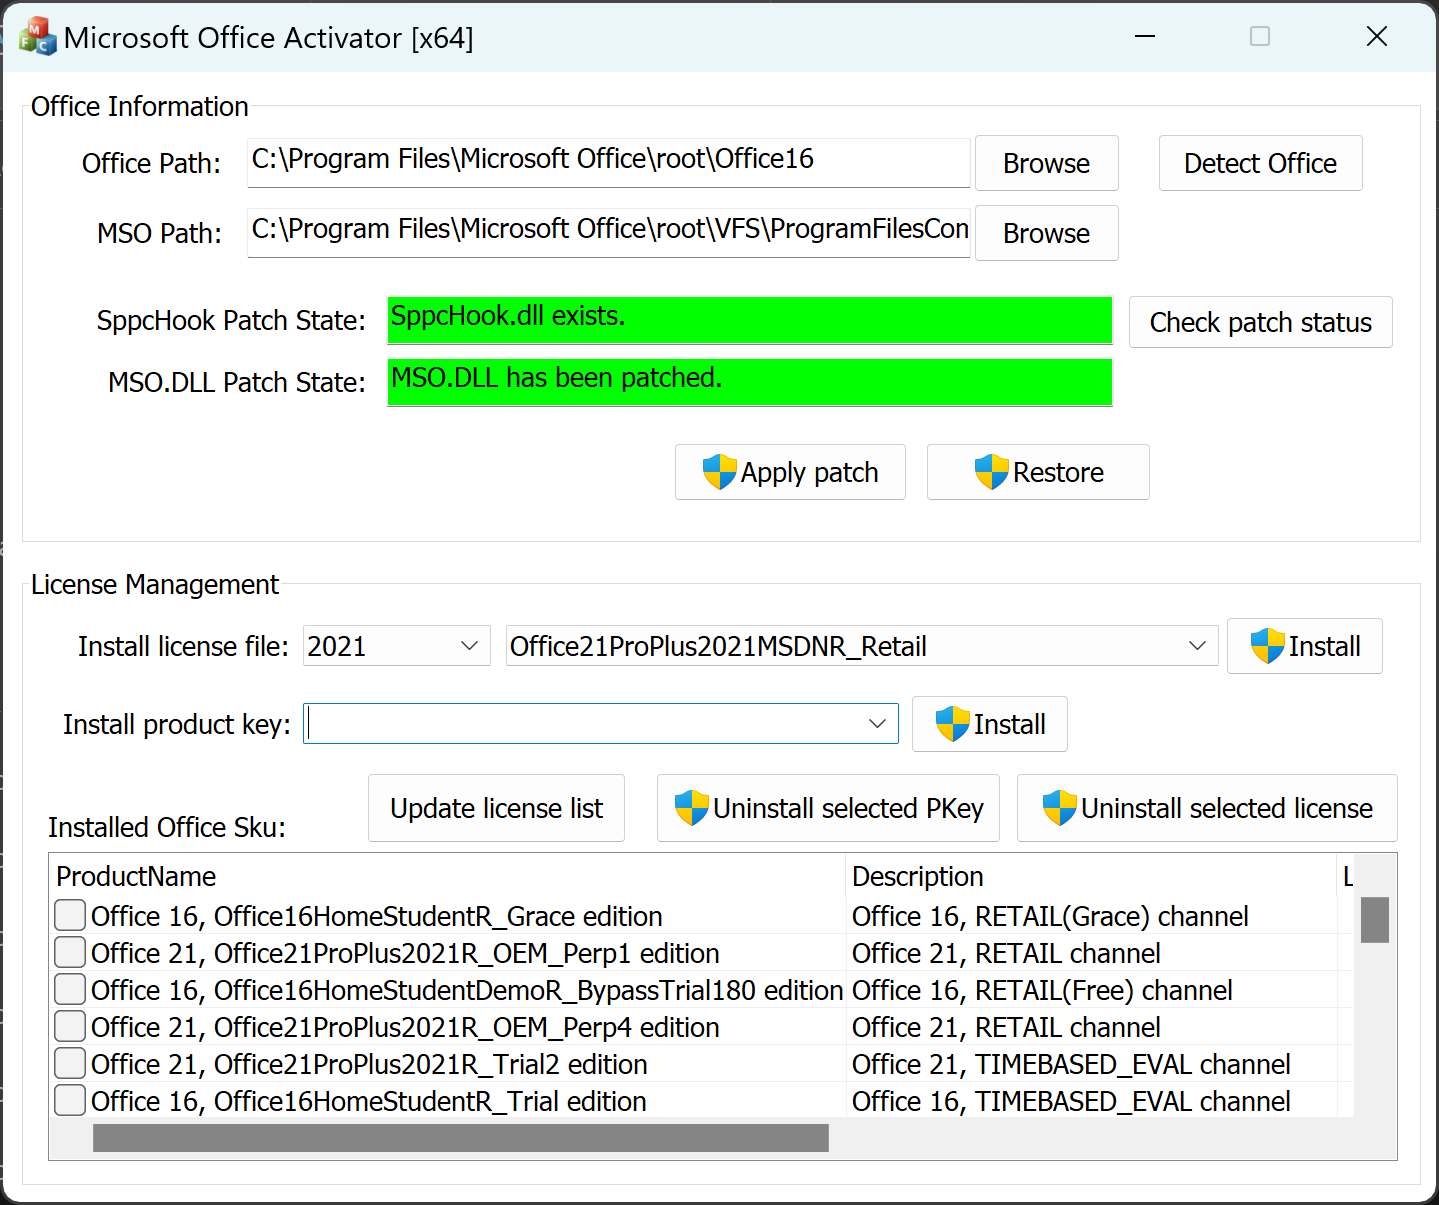
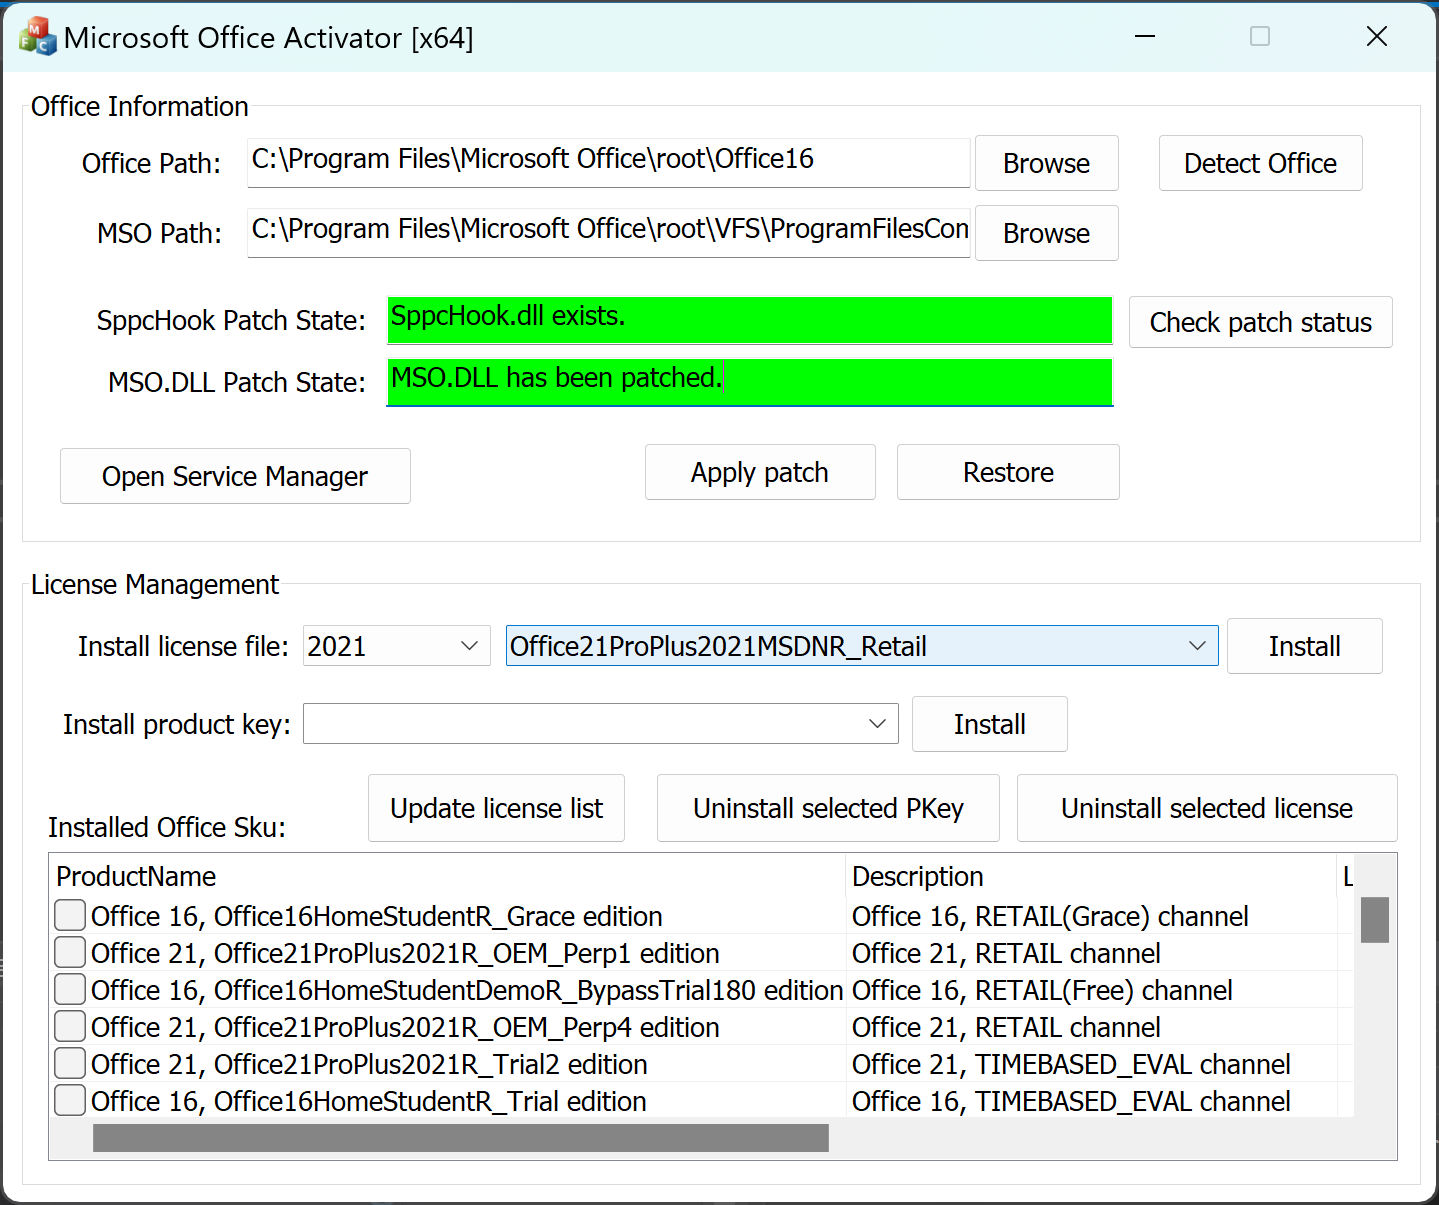
update README

diff --git a/README.md b/README.md
@@ -3,6 +3,7 @@
 **Office Activator** is an Office activation tool.
 
 ![MainWindow](https://github.com/bb107/OfficeActivator/blob/master/screenshots/main.png?raw=true)
+![ServiceManage](https://github.com/bb107/OfficeActivator/blob/service/screenshots/sc.png?raw=true)
 
 Just like other activation tools,
 >**Office Activator is:**
@@ -69,3 +70,16 @@ Therefore, the patched Office has no activation time limit (difference from KMS)
 6. Check patch status. Typically, "SppcHook Patch State" and "MSO Patch State" are "SppcHook.dll not found." and "MSO.DLL is not patched." respectively. If this is not the case, and the indicator color is not green, you may need to reinstall Office.
 7. At this point, just click the "Apply patch" button. If successful, the patch status indicator will turn green. If you need to restore the patch, just click the "Restore" button.
 8. Enjoy!
+
+## Run OfficeActivator As Service
+OfficeActivator can now run as a Windows service, which will monitor the MSO.DLL for changes in the background, patching it as soon as Office is updated.
+> 1. Click the "Open Service Manager" button.
+> 2. Click the "Create Service" button in the pop-up window.
+> 3. Click the "Start Service" button.
+
+If you need to delete the service, just click the "Stop Service" button, and then click the "Delete Service" button.
+
+### Notes on running as a service:
+1. Service mode will only patch MSO.DLL, so you need to do it in window mode first.
+2. Once the service is created, please do not move the OfficeActivator folder to another location.
+3. OfficeActivator uses directory monitoring API to monitor files for changes, so it doesn't take too much system resources.
